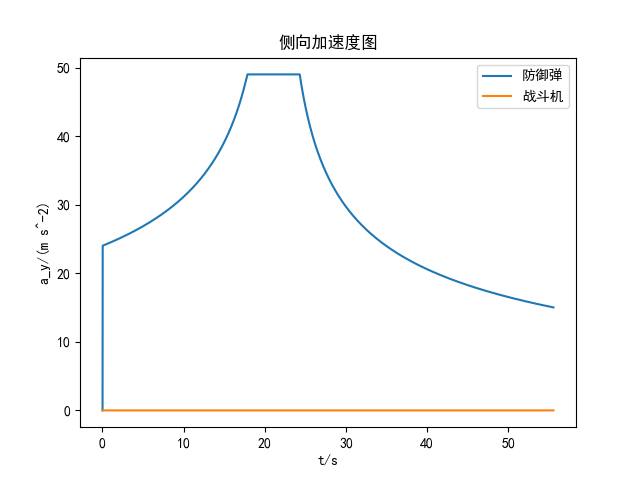
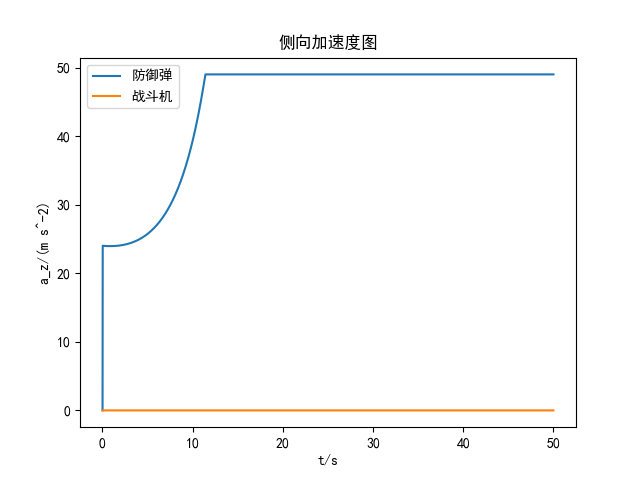
修改了模拟方式，怎么越改越错了

diff --git a/MyEnvs.py b/MyEnvs.py
@@ -27,6 +27,17 @@ class aircraft:
         self.velocity = velocity # 速度 (v)
         self.a_max=a_max # 最大过载 (a_max)
         self.R = R # r*
+
+    def simulate(self , dt ,dtheta , dpsi):
+
+        self.theta += dtheta * dt
+        self.psi += dpsi * dt
+        self.position[0] += self.velocity * cos(self.psi) * cos(self.theta) * dt
+        self.position[1] += self.velocity * sin(self.theta) * dt
+        self.position[2] += -self.velocity * sin(self.psi) * cos(self.theta) * dt
+
+
+
     
 
 
@@ -35,22 +46,20 @@ class relative:
     def __init__(self,chaser:aircraft,target:aircraft):
         # 初始化相对量
 
-        self.r = np.linalg.norm(target.position - chaser.position)
+        self.chaser = chaser
+        self.target = target
+
+        self.calculate_relative_state()
+
+
         self.r_0 = self.r
-        self.q_y = arcsin((target.position[1] - chaser.position[1]) / self.r)
-        self.q_z = arccos((target.position[0] - chaser.position[0]) / (np.linalg.norm(np.array([target.position[0] - chaser.position[0] , target.position[2] - chaser.position[2]])))) 
+        
+        
         self.dq_y = 0.0
         self.dq_z = 0.0
-
-
         self.dr = 0.0
         self.dq_y = 0.0
         self.dq_z = 0.0
-
-        self.chaser = chaser
-        self.target = target
-        self.theta = self.chaser.theta
-        self.psi = self.chaser.psi
         self.dtheta = 0.0
         self.dpsi = 0.0
 
@@ -60,6 +69,16 @@ class relative:
             return True
         else:
             return False
+        
+
+    def calculate_relative_state(self):
+        # 计算相对状态量
+        self.r = np.linalg.norm(self.target.position - self.chaser.position)
+        self.r_0 = self.r
+        self.q_y = arcsin((self.target.position[1] - self.chaser.position[1]) / self.r)
+        self.q_z = arccos((self.target.position[0] - self.chaser.position[0]) / (np.linalg.norm(np.array([self.target.position[0] - self.chaser.position[0] , self.target.position[2] - self.chaser.position[2]])))) 
+
+
 
 
 
@@ -78,21 +97,21 @@ class relative:
                           sin(self.target.theta) * cos(self.target.psi) * cos(q_y) * sin(q_z))
             eta_y = np.clip(eta_y, -1, 1)
             eta_y = arcsin(eta_y)
-            eta_z = arctan((cos(q_y) * sin(q_z) * cos(self.psi) -cos(q_y) * cos(q_z) * sin(self.psi))/
-                          (cos(q_y) * cos(q_z) * cos(self.theta) * cos(self.psi) +
-                           sin(self.theta) * sin(q_y) +
-                           cos(q_y) * sin(q_z) * cos(self.theta) * sin(self.psi)))
+            eta_z = arctan((cos(q_y) * sin(q_z) * cos(self.chaser.psi) -cos(q_y) * cos(q_z) * sin(self.chaser.psi))/
+                          (cos(q_y) * cos(q_z) * cos(self.chaser.theta) * cos(self.chaser.psi) +
+                           sin(self.chaser.theta) * sin(q_y) +
+                           cos(q_y) * sin(q_z) * cos(self.chaser.theta) * sin(self.chaser.psi)))
         elif type == "fighter":
             r_bar = (r-self.chaser.R) / (self.r_0 - self.chaser.R) 
 
-            eta_y = (-sin(self.theta) * cos(self.psi) * cos(q_y) * cos(q_z) +
-                          cos(self.theta) * sin(q_y) -
-                          sin(self.theta) * cos(self.psi) * cos(q_y) * sin(q_z))
+            eta_y = (-sin(self.chaser.theta) * cos(self.chaser.psi) * cos(q_y) * cos(q_z) +
+                          cos(self.chaser.theta) * sin(q_y) -
+                          sin(self.chaser.theta) * cos(self.chaser.psi) * cos(q_y) * sin(q_z))
             eta_y = np.clip(eta_y, -1, 1)
-            eta_z = arctan((cos(q_y) * sin(q_z) * cos(self.psi) -cos(q_y) * cos(q_z) * sin(self.psi))/
-                          (cos(q_y) * cos(q_z) * cos(self.theta) * cos(self.psi) +
-                           sin(self.theta) * sin(q_y) +
-                           cos(q_y) * sin(q_z) * cos(self.theta) * sin(self.psi)))
+            eta_z = arctan((cos(q_y) * sin(q_z) * cos(self.chaser.psi) -cos(q_y) * cos(q_z) * sin(self.chaser.psi))/
+                          (cos(q_y) * cos(q_z) * cos(self.chaser.theta) * cos(self.chaser.psi) +
+                           sin(self.chaser.theta) * sin(q_y) +
+                           cos(q_y) * sin(q_z) * cos(self.chaser.theta) * sin(self.chaser.psi)))
         eta_y = tanh(eta_y)
         eta_z = tanh(eta_z)
         return r_bar , eta_y , eta_z
@@ -103,7 +122,7 @@ class relative:
         elif type == "fighter":
             r_bar = (self.r - self.chaser.R) / (self.r_0 - self.chaser.R)
 
-        eta_z = tanh(self.q_z - self.psi)
+        eta_z = tanh(self.q_z - self.chaser.psi)
 
         return r_bar , eta_z
 
@@ -115,15 +134,15 @@ class relative:
     def proportional_navigation(self):
         # 比例导引法
 
-        self.dtheta = 3 * self.dq_y * cos(self.q_z - self.psi)
-        self.dpsi = 3 * self.dq_z - 3 * self.dq_y * tan(self.theta) * sin(self.q_z - self.psi)
+        self.dtheta = 3 * self.dq_y * cos(self.q_z - self.chaser.psi)
+        self.dpsi = 3 * self.dq_z - 3 * self.dq_y * tan(self.chaser.theta) * sin(self.q_z - self.chaser.psi)
 
 
     
     def calculate_a(self):
 
         self.a_y = self.dtheta * self.chaser.velocity
-        self.a_z = -self.dpsi * self.chaser.velocity * cos(self.theta)
+        self.a_z = -self.dpsi * self.chaser.velocity * cos(self.chaser.theta)
 
         a = sqrt(self.a_y**2 + self.a_z**2)
 
@@ -132,20 +151,9 @@ class relative:
             self.a_y = self.a_y * self.chaser.a_max / a
             self.a_z = self.a_z * self.chaser.a_max / a
             self.dtheta = self.a_y / self.chaser.velocity
-            self.dpsi = -self.a_z / (self.chaser.velocity * cos(self.theta))
+            self.dpsi = -self.a_z / (self.chaser.velocity * cos(self.chaser.theta))
 
         return self.a_y , self.a_z
-
-
-
-
-
-
-            
-
-
-
-
 
 
 
@@ -161,34 +169,27 @@ class relative:
 
         self.dr = (self.target.velocity * (cos(self.target.theta) * cos(self.q_y) * cos(self.target.psi - self.q_z) +
                                             sin(self.target.theta) * sin(self.q_y)) -
-                    self.chaser.velocity * (cos(self.theta) * cos(self.q_y) * cos(self.psi - self.q_z) +
-                                            sin(self.theta) * sin(self.q_y)))
+                    self.chaser.velocity * (cos(self.chaser.theta) * cos(self.q_y) * cos(self.chaser.psi - self.q_z) +
+                                            sin(self.chaser.theta) * sin(self.q_y)))
             
         self.dq_y = (self.target.velocity * (sin(self.target.theta) * cos(self.q_y) -
                                             cos(self.target.theta) * sin(self.q_y) * cos(self.target.psi - self.q_z)) -
-                        self.chaser.velocity * (sin(self.theta) * cos(self.q_y) -
-                                            cos(self.theta) * sin(self.q_y) * cos(self.psi - self.q_z)))/self.r
+                        self.chaser.velocity * (sin(self.chaser.theta) * cos(self.q_y) -
+                                            cos(self.chaser.theta) * sin(self.q_y) * cos(self.chaser.psi - self.q_z)))/self.r
         
         self.dq_z = (self.target.velocity * cos(self.target.theta) * sin(self.target.psi - self.q_z) -
-                        self.chaser.velocity * cos(self.theta) * sin(self.psi - self.q_z))/(self.r * cos(self.q_y))
-        
-
-        self.r += self.dr * dt
-        self.q_y += self.dq_y * dt
-        self.q_z += self.dq_z * dt
+                        self.chaser.velocity * cos(self.chaser.theta) * sin(self.chaser.psi - self.q_z))/(self.r * cos(self.q_y))
+    
 
         _ , _ = self.calculate_a()
 
-        self.theta += self.dtheta * dt 
-        self.psi += self.dpsi * dt
 
         # 更新位置
         
-        self.chaser.position[0] = self.target.position[0] - self.r * cos(self.q_y) * cos(self.q_z)
-        self.chaser.position[1] = self.target.position[1] - self.r * sin(self.q_y)
-        self.chaser.position[2] = self.target.position[2] + self.r * cos(self.q_y) * sin(self.q_z)
-        self.chaser.theta = self.theta
-        self.chaser.psi = self.psi
+        
+        self.chaser.simulate(dt , self.dtheta , self.dpsi)
+
+        self.calculate_relative_state()
 
 
 
@@ -328,8 +329,8 @@ class FighterEnv(gym.Env):
         self.plotdata["fighter"]["x"].append(self.fighter.position[0])
         self.plotdata["fighter"]["y"].append(self.fighter.position[1])
         self.plotdata["fighter"]["z"].append(self.fighter.position[2])
-        self.plotdata["fighter"]["theta"].append(self.FT.theta)
-        self.plotdata["fighter"]["psi"].append(self.FT.psi)
+        self.plotdata["fighter"]["theta"].append(self.fighter.theta)
+        self.plotdata["fighter"]["psi"].append(self.fighter.psi)
         self.plotdata["fighter"]["a_y"].append(self.FT.a_y)
         self.plotdata["fighter"]["a_z"].append(self.FT.a_z)
         self.plotdata["fighter"]["r"].append(self.FT.r)
@@ -337,8 +338,8 @@ class FighterEnv(gym.Env):
         self.plotdata["defender"]["x"].append(self.defender.position[0])
         self.plotdata["defender"]["y"].append(self.defender.position[1])
         self.plotdata["defender"]["z"].append(self.defender.position[2])
-        self.plotdata["defender"]["theta"].append(self.FD.theta)
-        self.plotdata["defender"]["psi"].append(self.FD.psi)
+        self.plotdata["defender"]["theta"].append(self.defender.theta)
+        self.plotdata["defender"]["psi"].append(self.defender.psi)
         self.plotdata["defender"]["a_y"].append(self.FD.a_y)
         self.plotdata["defender"]["a_z"].append(self.FD.a_z)
         self.plotdata["defender"]["r"].append(self.FD.r)
@@ -441,12 +442,12 @@ class FighterEnv(gym.Env):
 
 
     def calculate_eta(self):
-        v_f = self.fighter.velocity * np.array([cos(self.FT.theta) * cos(self.FT.psi),
-                                           -cos(self.FT.theta) * sin(self.FT.psi),
-                                            sin(self.FT.theta)])  # 战机速度矢量
-        l_ft = self.FT.r * np.array([cos(self.FT.q_y) * cos(self.FT.q_z),
-                                    -cos(self.FT.q_y) * sin(self.FT.q_z),
-                                    sin(self.FT.q_y)])
+        v_f = self.fighter.velocity * np.array([cos(self.fighter.theta) * cos(self.fighter.psi),
+                                           -cos(self.fighter.theta) * sin(self.fighter.psi),
+                                            sin(self.fighter.theta)])  # 战机速度矢量
+        l_ft = self.target.position - self.fighter.position  # 目标与战斗机的相对位置矢量
+
+
         if np.linalg.norm(l_ft) == 0:
             self.eta_ft = 0
         else:
@@ -637,7 +638,7 @@ class FighterEnv_2D(FighterEnv):
 class FighterEnv_nopolicy(FighterEnv):
 
     def start_simulate(self):
-        while self.FD.r > R_DAM and self.FT.r > 0: # 不进行突防仿真
+        while self.FD.r > R_DAM and self.FT.r > 5000 and self.t < 30: # 不进行突防仿真
 
             self.FT.proportional_navigation()
             self.FD.proportional_navigation()          
@@ -658,7 +659,9 @@ class FighterEnv_nopolicy(FighterEnv):
 class FighterEnv_nopolicy_2D(FighterEnv_2D):
 
     def start_simulate(self):
-        while self.FD.r > R_DAM and self.FT.r > 0: # 不进行突防仿真
+
+        while self.FD.r > R_DAM and self.FT.r > 5000 and self.t < 30: # 不进行突防仿真
+            
 
             self.FT.proportional_navigation()
             self.FD.proportional_navigation()          

diff --git a/no-policy-2D.py b/no-policy-2D.py
@@ -9,6 +9,8 @@ myenv = FighterEnv_nopolicy_2D(True,Dt = 0.01)
 
 print(myenv.t)
 print(myenv.FD.r)
+r = np.array(myenv.plotdata["defender"]["r"])
+print(min(r))
 
 plt.figure()
 plt.plot(myenv.t_array , myenv.plotdata["defender"]["r"],label = "防御弹")
